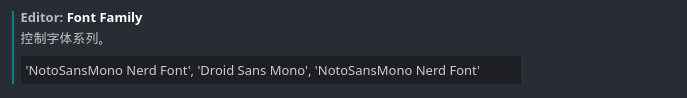
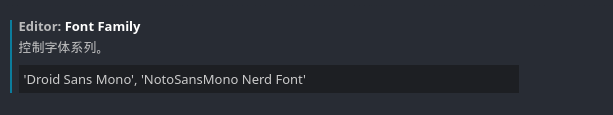
update blog

Changed region(s): [[0.0, 0.1224, 0.7129, 0.8571]]

diff --git a/docs/_posts/2021/10/20/problems-when-using-manjaro.md b/docs/_posts/2021/10/20/problems-when-using-manjaro.md
@@ -12,11 +12,14 @@ categories:
   - Expand Learning
 ---
 
-> 程序员的意义在于不断折腾，最近将自己的两台笔记本都安装了win11以及Manjaro双系统，下面谈谈安装以及使用Manjaro时的遇到的一些问题，以及对应的解决方案
+> 程序员的意义在于不断折腾  
+> 最近将自己的3台电脑都安装了win11以及Manjaro双系统  
+> 下面谈谈安装以及使用Manjaro时的遇到的一些问题，以及对应的解决方案
 <!-- more -->
 
 ::: tip 提示
-本文涉及所使用的Manjaro版本为`21.1.6`
+本文涉及所使用的Manjaro版本为`21.1.6`  
+桌面使用的是gnome
 :::
 
 ## 安装Chrome
@@ -60,9 +63,9 @@ sudo pacman -S visual-studio-code-bin
 
 * 打开terminal
 * 在terminal里右键选择配置文件首选项
-* 在自定义字体那一栏里的字体名称记下
+* 将自定义字体那一栏里的字体名称记下
 * 打开VScode设置，找到Editor Font Size
-* 将记下的字体放置于第一个: `"你的终端字体", ...其他`，比如下面是我的配置
+* 将刚刚记下的字体名称放置于最后一个: `...其他, "你的终端字体"`，比如下面是我的配置
 
 ![](/images/vscode-font-set.png)
 
@@ -76,28 +79,63 @@ sudo pacman -S visual-studio-code-bin
 ```sh
 sudo pacman -S flameshot
 ```
-* 设置全局快捷键（如果需要的话）
-设置 => keyboard => Customize Shortcuts => 自定义快捷键 => + => 
-命令那一栏填写: `flameshot gui`，即可使用自定义的快捷键快速启动截图
+* 设置全局快捷键（如果需要的话）  
+设置 `=>` keyboard `=>` Customize Shortcuts `=>` 自定义快捷键 `=>` 点击+ `=>`  
+命令那一栏填写: `flameshot gui`，即可使用自定义的快捷键快速启动截图  
+下面是我自定义的全局快捷键`Ctrl` + `Alt` + `A`
+
+![](/images/custom-flameshot-shortcut.png)
 
 ## 安装录屏工具（peek）
 
-```
-// TODO
-```
+打开软件管理器，搜索peek安装或者执行`sudo pacman -S peek`
 
 ## 安装钉钉
 
+```sh
+yay -S dingtalk
 ```
-// TODO
-```
-## 设置快捷键
 
+::: tip 请安装`dingtalk-bin`而非`dingtalk`  
+`dingtalk`是基于`electron`开发的web套壳版，功能不全  
+而`dingtalk-bin`为官方linux版，功能较为完善
+:::
+
+::: warning 个人体验官方版目前依旧存在一些问题
+* 工作台内的应用无法输入中文
+* 查找聊天记录功能无法输入中文
+* 不支持dark mode
+
+请确保了解后果
+:::
+
+## 安装node环境
+
+* 安装`nvm`
+```sh
+curl -o- https://raw.githubusercontent.com/nvm-sh/nvm/v0.39.0/install.sh | bash
 ```
-// TODO
+* 安装`node`
+```sh
+nvm install 14.17.1
 ```
+安装完毕后会自动默认使用该版本
+* 安装`yarn`
+```sh
+npm install -g yarn
+```
+
+::: tip 选择自己的Node版本
+本人使用的node版本为`14.17.1`，请读者选择自己需要的node版本进行安装
+:::
+
+## 结语
+
+因为本人在安装使用Manjaro时从事的是前端开发工作，上述的几个步骤完成之后基本可以满足日常开发需求  
 
 ## 参考
-```
-// TODO
-```
+
+* [WeChat (简体中文) - ArchWiki](https://wiki.archlinux.org/title/WeChat_(%E7%AE%80%E4%BD%93%E4%B8%AD%E6%96%87))
+* [Fcitx5 - ArchWiki](https://wiki.archlinux.org/title/Fcitx5)
+* [AUR (en) - dingtalk-bin](https://aur.archlinux.org/packages/dingtalk-bin/)
+* [nvm-sh/nvm: Node Version Manager - POSIX-compliant bash script to manage multiple active node.js versions](https://github.com/nvm-sh/nvm#installing-and-updating)
